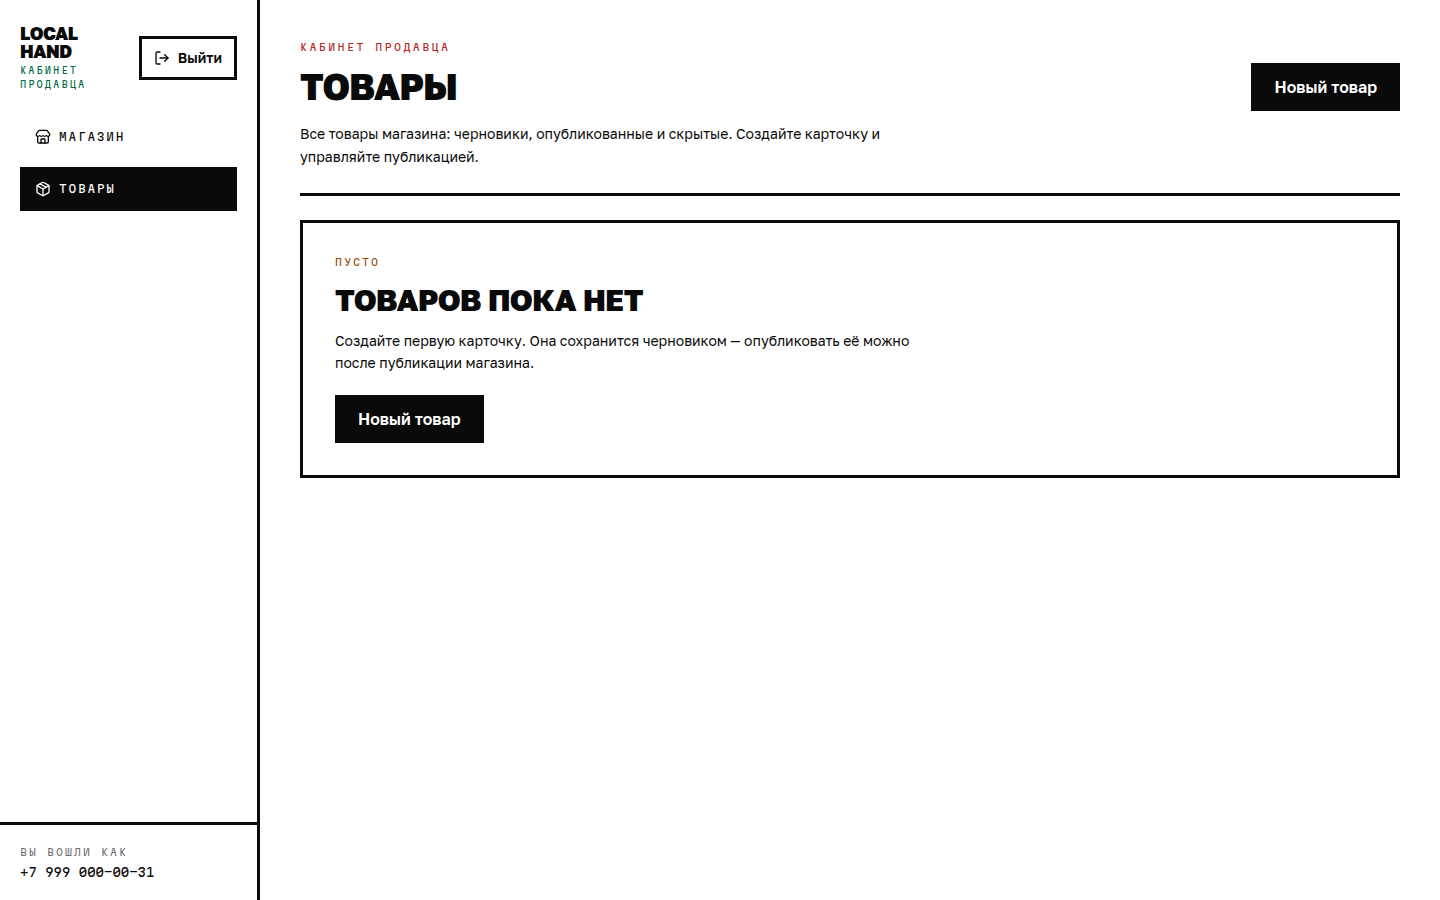
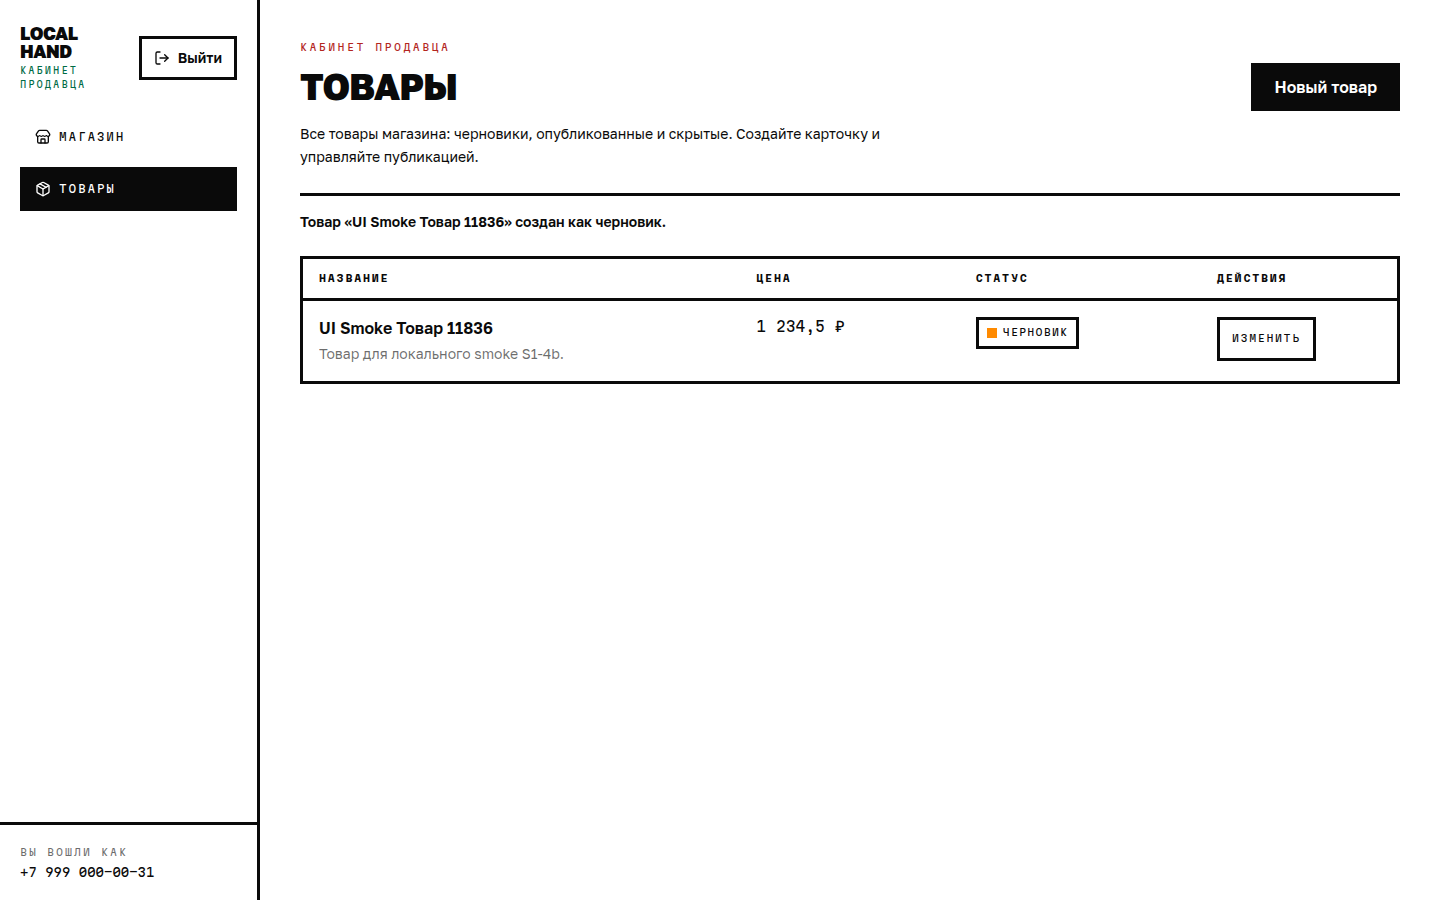
docs(s1-4b): address close review findings

Changed region(s): [[0.2188, 0.28, 0.9688, 0.4978], [0.2188, 0.2178, 0.9688, 0.2489]]

diff --git a/.scrum/sprints/1/evidence/S1-4b-verify.md b/.scrum/sprints/1/evidence/S1-4b-verify.md
@@ -35,17 +35,22 @@ openspec validate --all --strict
 Totals: 2 passed, 0 failed (2 items)
 ```
 
+Лог снят до добавления evidence; на финальном дереве (226 tracked
+files) `node scripts/check-public-repo.mjs` — clean.
+
 Web suite дополнительно прогнан 3 раза подряд — 34/34 стабильно.
 
 ## Browser smoke (local preview)
 
 Сценарий: login dev-OTP → `/admin/products` → create `1234,50` →
-draft → publish → товар виден в `/api/shops/:slug`.
+draft → publish → товар виден в ответе storefront API
+`/api/shops/:slug` (UI-smoke витрины — S1-5).
 
 - 320: список карточками, форма в одну колонку, overflow=false.
-- 1440: таблица, форма + статус-панель.
+- 1440: таблица после create, форма + статус-панель.
 - Скриншоты:
-  - [products 1440](S1-4b-products-1440.png)
+  - [products 1440: таблица](S1-4b-products-1440.png)
+  - [products 1440: empty](S1-4b-products-empty-1440.png)
   - [products 320](S1-4b-products-320.png)
   - [new 1440](S1-4b-new-1440.png)
   - [new 320](S1-4b-new-320.png)

diff --git a/docs/tasks/01-seller-onboarding.md b/docs/tasks/01-seller-onboarding.md
@@ -75,9 +75,10 @@ Change: `02-seller-onboarding` (валиден strict).
 
 ## Старт
 
-Сборка начата 27.11.2026 после явной команды владельца. Cycle 1–4
-закрыты (S1-1 auth, S1-2 shop, S1-3 products, S1-4a admin auth/shop);
-далее S1-4b products UI по плану циклов.
+Сборка начата 27.11.2026 после явной команды владельца. Cycle 1–5
+закрыты (S1-1 auth, S1-2 shop, S1-3 products, S1-4a admin auth/shop,
+S1-4b products UI); далее S1-5 security/evidence/archive по плану
+циклов.
 
 ## Evidence
 

diff --git a/.scrum/sprints/1/daily.md b/.scrum/sprints/1/daily.md
@@ -96,7 +96,8 @@
   responsive/a11y.
 - Ревью: **APPROVE**; P2 session-login fixed `5789450`.
 - `pnpm verify`: exit 0; API 97/97, shared 33/33, web 34/34, OpenSpec 2/2.
-- Browser smoke: create 1234,50 → publish → виден на витрине; 320 без
+- Browser smoke: create 1234,50 → publish → виден в storefront API;
+  320 без
   overflow. Axe light/dark 10 сканов, 0 violations.
 - PR #20 squash-merge `3753a1b`; evidence:
   [evidence/S1-4b-verify.md](evidence/S1-4b-verify.md).
